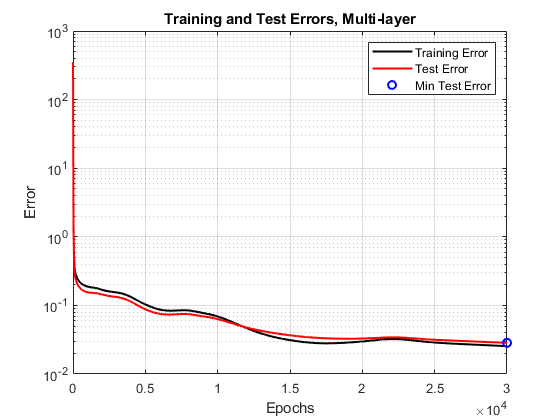
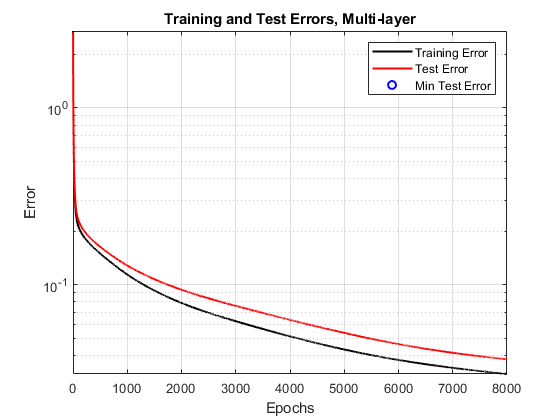
report A1 done

diff --git a/A1_Supervised/main_MultiLayer.m b/A1_Supervised/main_MultiLayer.m
@@ -7,7 +7,7 @@
 % 3 = dot cloud 3
 % 4 = OCR data
 
-dataSetNr = 2; % Change this to load new data 
+dataSetNr = 3; % Change this to load new data 
 
 % X - Data samples
 % D - Desired output from classifier for each sample
@@ -17,7 +17,7 @@ dataSetNr = 2; % Change this to load new data
 % plotCase(X,D)
 %% Select a subset of the training features
 
-numBins = 5                    % Number of Bins you want to devide your data into
+numBins = 100                    % Number of Bins you want to devide your data into
 numSamplesPerLabelPerBin = inf; % Number of samples per label per bin, set to inf for max number (total number is numLabels*numSamplesPerBin)
 selectAtRandom = true;          % true = select features at random, false = select the first features
 
@@ -30,12 +30,21 @@ selectAtRandom = true;          % true = select features at random, false = sele
 % XBinComb = combineBins(XBins, [1,2,3]);
 
 % Add your own code to setup data for training and test here
-XTrain = combineBins(XBins, 1:numBins-1);
-DTrain = combineBins(DBins, 1:numBins-1);
-LTrain = combineBins(LBins, 1:numBins-1);
-XTest  = XBins{numBins};
-DTest  = DBins{numBins};
-LTest  = LBins{numBins};
+% XTrain = combineBins(XBins, 1:numBins-1);
+% DTrain = combineBins(DBins, 1:numBins-1);
+% LTrain = combineBins(LBins, 1:numBins-1);
+% XTest  = XBins{numBins};
+% DTest  = DBins{numBins};
+% LTest  = LBins{numBins};
+
+% For non-generalizable
+XTrain = XBins{1};
+DTrain = DBins{1};
+LTrain = LBins{1};
+XTest  = combineBins(XBins, 2:numBins);
+DTest  = combineBins(DBins, 2:numBins);
+LTest  = combineBins(LBins, 2:numBins);
+
 
 %% Modify the X Matrices so that a bias is added
 %  Note that the bias must be the last feature for the plot code to work
@@ -50,7 +59,7 @@ XTest = cat(2, XTest, ones(length(XTest), 1));
 %  Note: You need to modify trainMultiLayer() and runMultiLayer()
 %  in order to train the network
 
-numHidden     = 64     % Change this, number of hidden neurons 
+numHidden     = 5     % Change this, number of hidden neurons 
 numIterations = 5000   % Change this, number of iterations (epochs)
 learningRate  = 0.02 % Change this, your learning rate
 

diff --git a/A1_Supervised/kNN_crossvalidation.m b/A1_Supervised/kNN_crossvalidation.m
@@ -7,7 +7,7 @@
 % 3 = dot cloud 3
 % 4 = OCR data
 
-dataSetNr = 1; % Change this to load new data 
+dataSetNr = 4; % Change this to load new data 
 
 % X - Data samples
 % D - Desired output from classifier for each sample
@@ -36,12 +36,13 @@ selectAtRandom = true;          % true = select samples at random, false = selec
 % Or use the combineBins helper function to combine several bins into one matrix (good for cross validataion)
 % XBinComb = combineBins(XBins, [1,2,3]);
 
-kRange = 15;
+kRange = 50;
 bestMedAcc = 0;
 bestK = 0;
 for j=1:kRange
     k = j;
     acc = 0;
+    medAcc = 0;
     
     for i = 1:n
         vec = [1:n];
@@ -73,12 +74,32 @@ for j=1:kRange
         acc = acc + calcAccuracy(cM);
     end
     
-    medAcc = acc / n
+    medAcc = acc / n;
     if (medAcc > bestMedAcc)
-        bestMedAcc = medAcc;
+        bestMedAcc = medAcc
         bestK = k;
     end
 end
 
 bestMedAcc
-bestK
+k = bestK
+
+XTrain = combineBins(XBins, 1:numBins-1);
+LTrain = combineBins(LBins, 1:numBins-1);
+XTest  = XBins{numBins};
+LTest  = LBins{numBins};
+
+LPredTrain = kNN(XTrain, k, XTrain, LTrain);
+LPredTest  = kNN(XTest , k, XTrain, LTrain);
+
+cM = calcConfusionMatrix(LPredTest, LTest);
+acc = calcAccuracy(cM);
+        
+%% Plot classifications
+%  Note: You should not have to modify this code
+
+if dataSetNr < 4
+    plotResultDots(XTrain, LTrain, LPredTrain, XTest, LTest, LPredTest, 'kNN', [], bestK);
+else
+    plotResultsOCR(XTest, LTest, LPredTest)
+end

diff --git a/A1_Supervised/main_kNN.m b/A1_Supervised/main_kNN.m
@@ -19,7 +19,7 @@ dataSetNr = 1; % Change this to load new data
 
 %% Select a subset of the training samples
 
-numBins = 2;                    % Number of bins you want to devide your data into
+numBins = 5;                    % Number of bins you want to devide your data into
 numSamplesPerLabelPerBin = inf; % Number of samples per label per bin, set to inf for max number (total number is numLabels*numSamplesPerBin)
 selectAtRandom = true;          % true = select samples at random, false = select the first features
 

diff --git a/A1_Supervised/helpFunctions/plotData.m b/A1_Supervised/helpFunctions/plotData.m
@@ -5,6 +5,9 @@ function plotData(X,L,LPred)
 c='xo+*sd';
 hold on;
 for k = 1:6
+%     whos("L")
+%     whos("k")
+%     whos("LPred")
     ind     = (L == k) & (L == LPred);
     ind_err = (L == k) & (L ~= LPred);
     scatter(X(ind    ,1), X(ind    ,2), strcat('g',c(k)));
